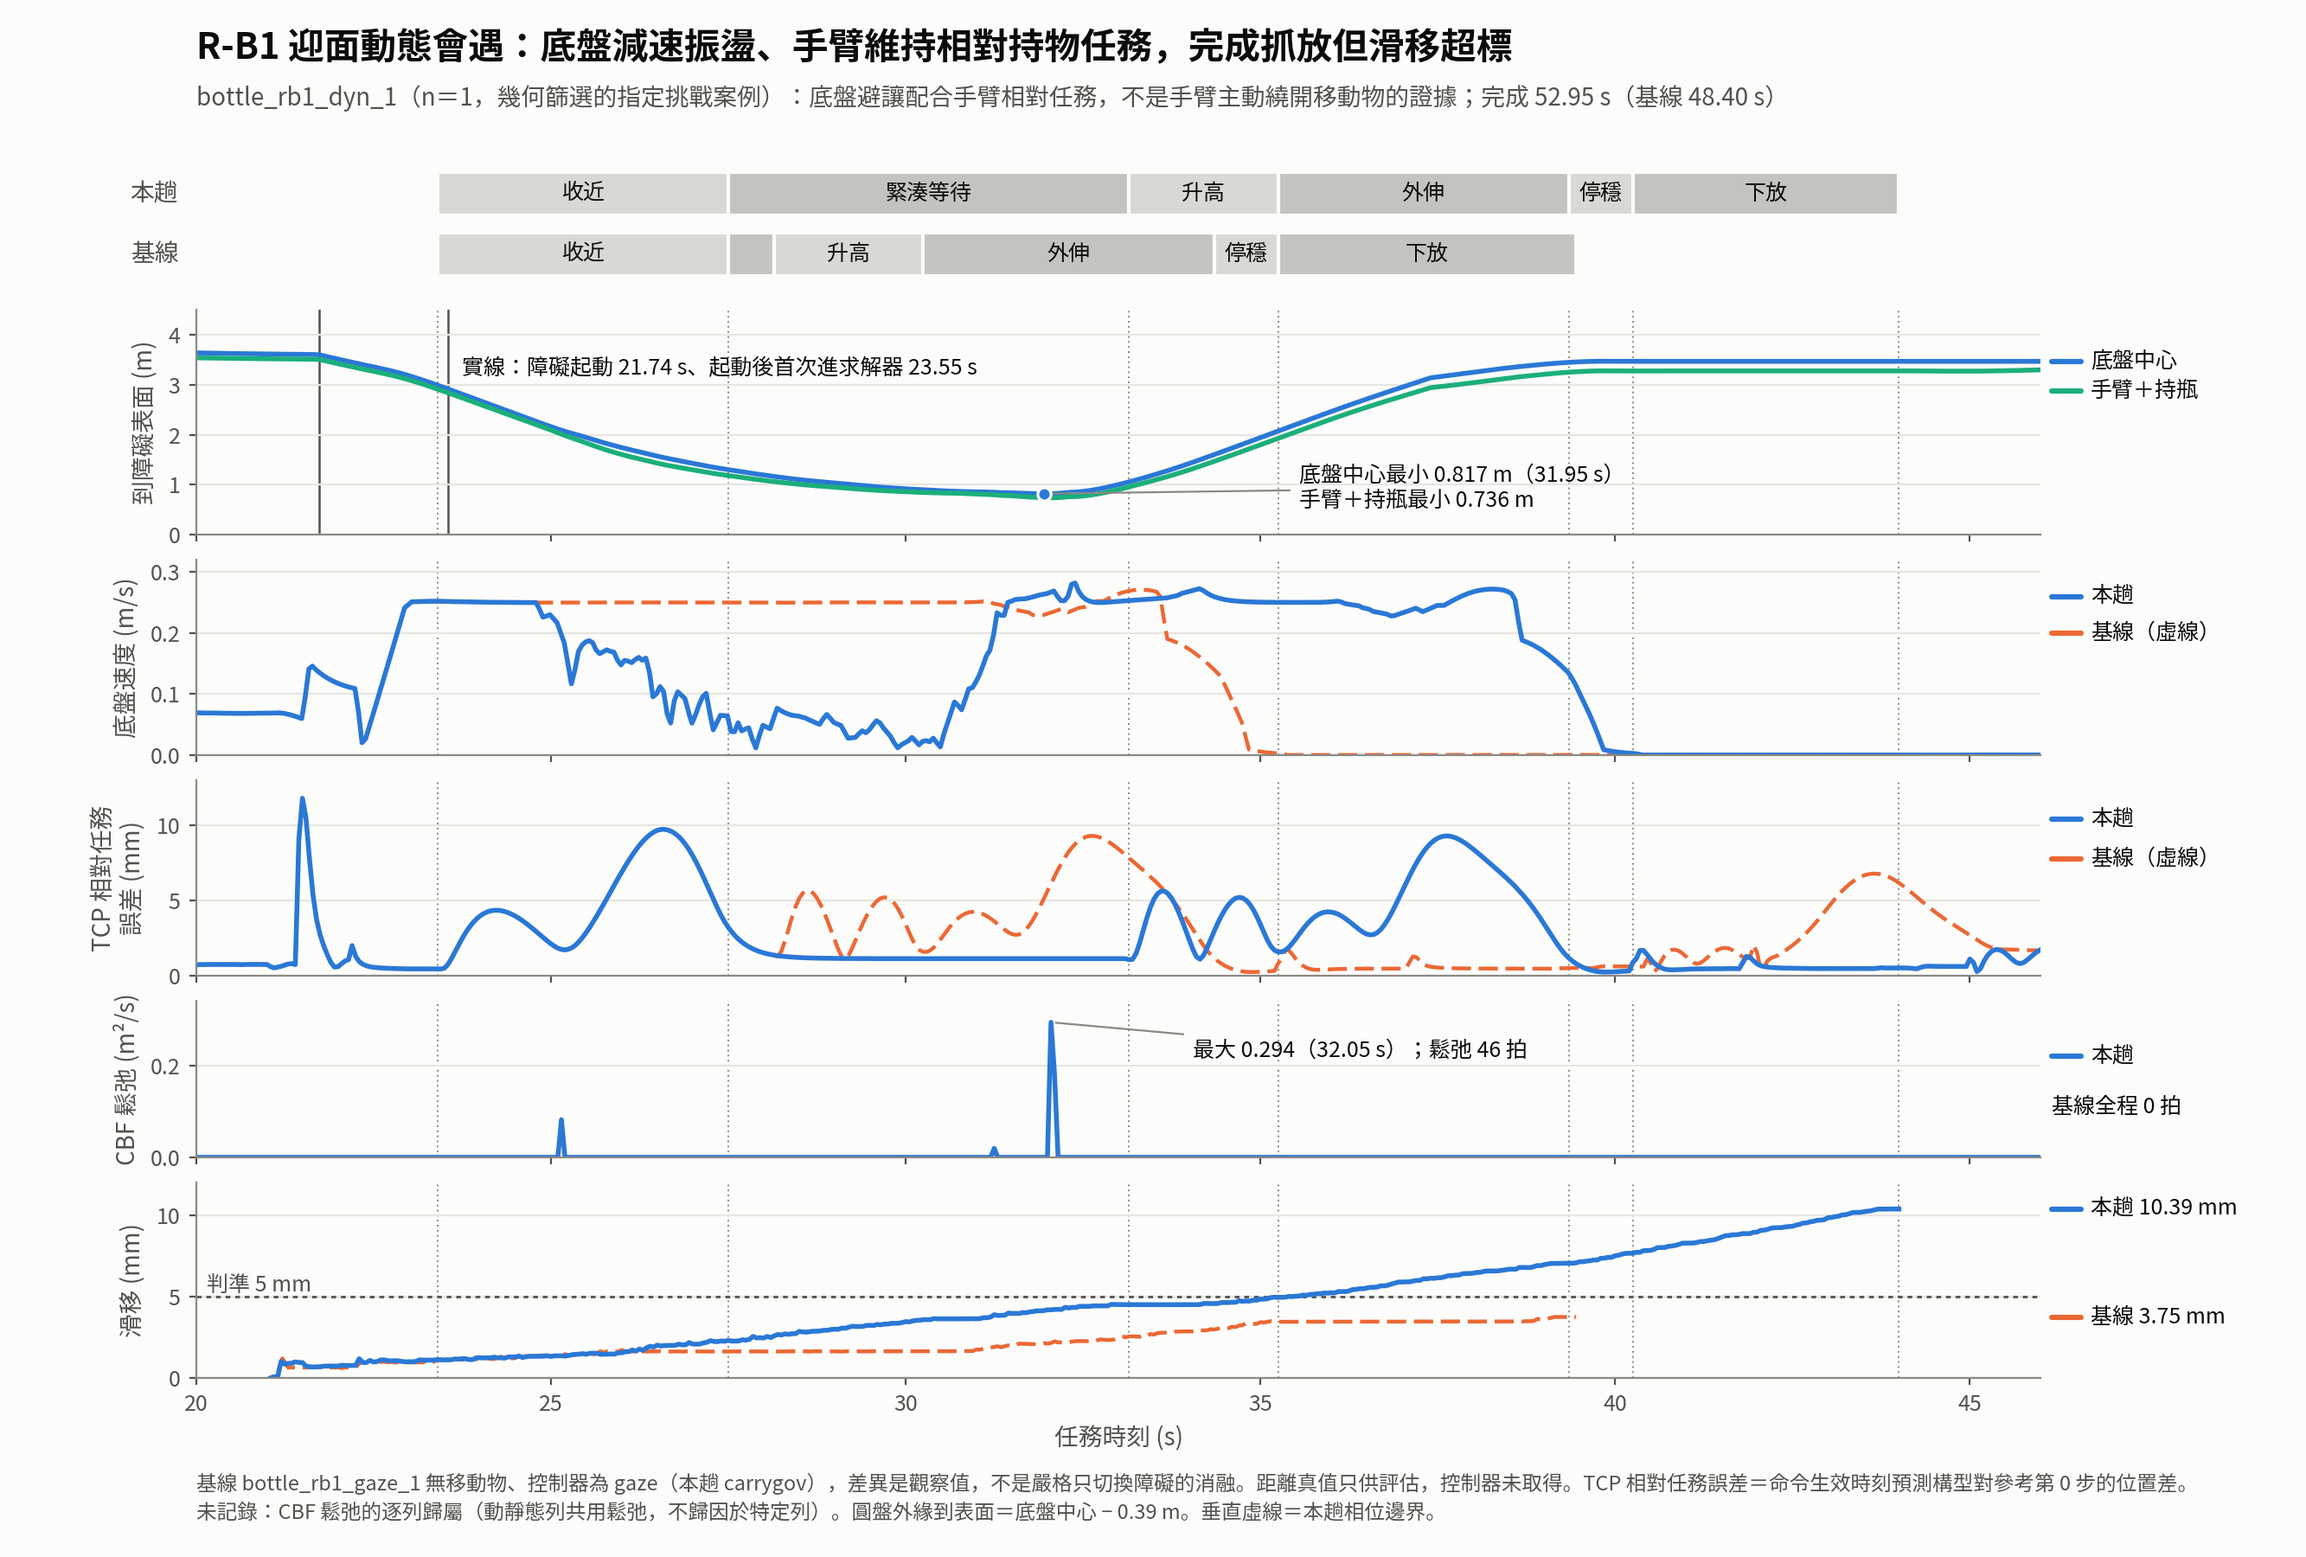
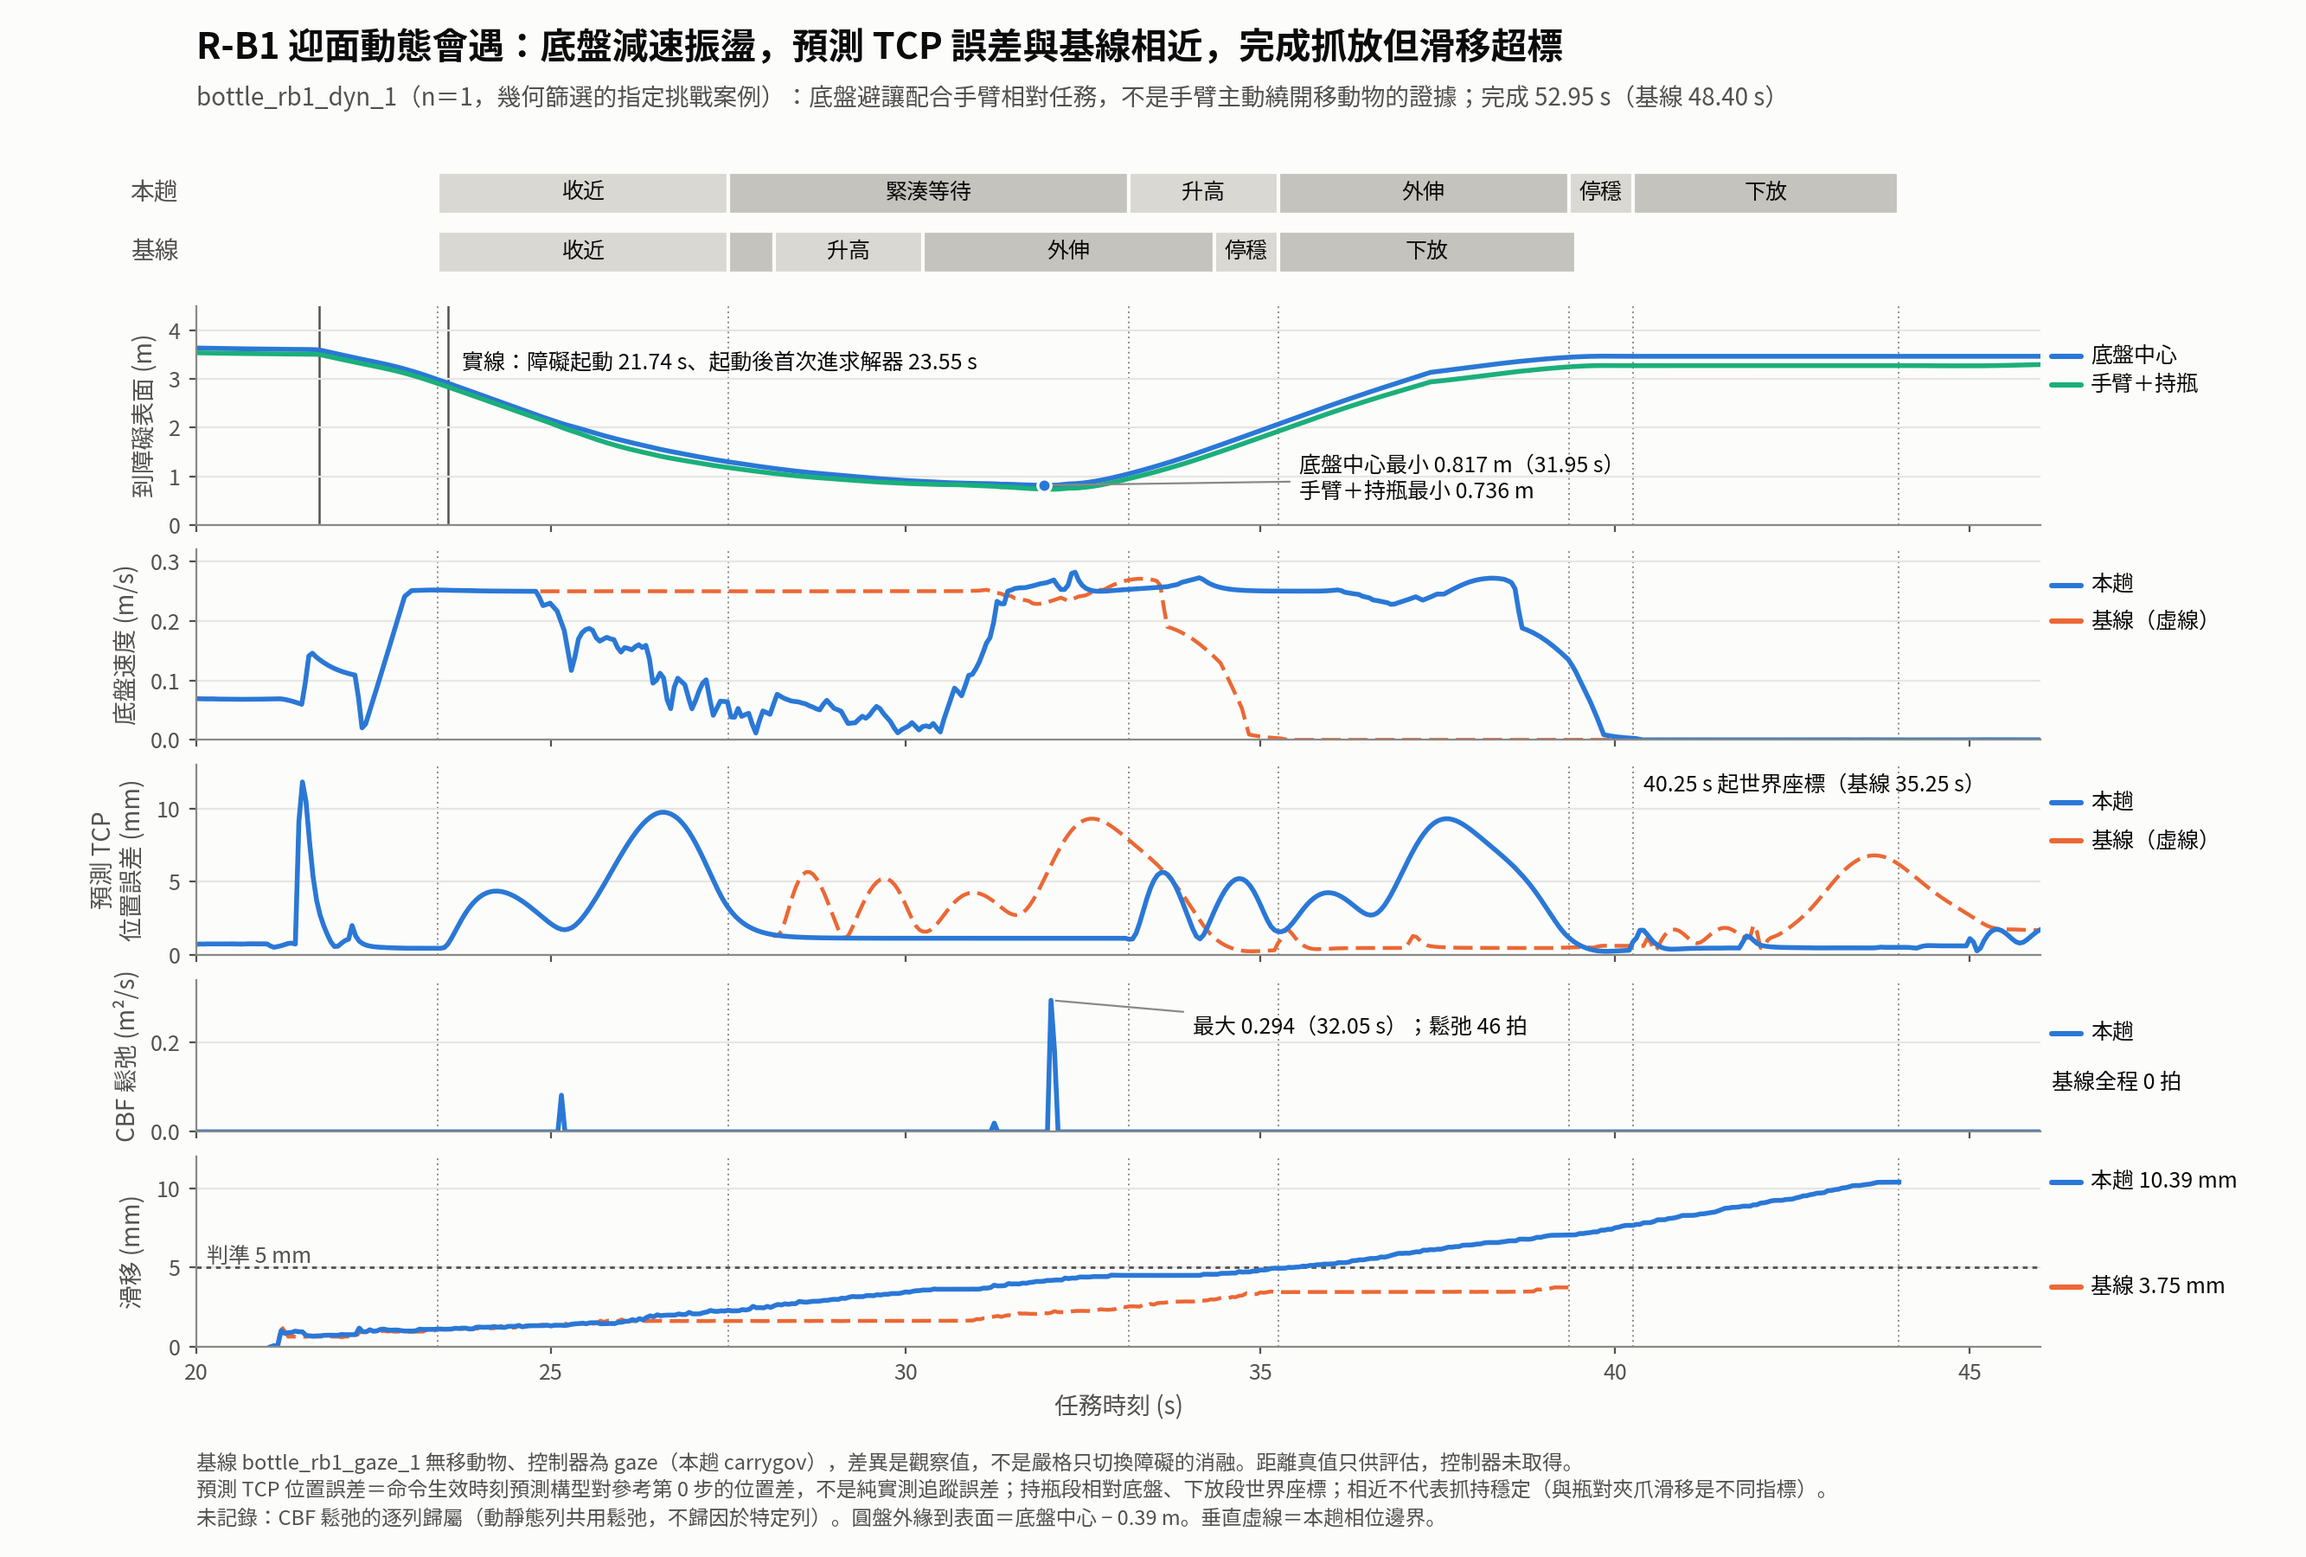
bottle_rb1_dyn_1 封存前文字收斂（Codex）：第三格改稱命令生效時刻的預測 TCP 位置誤差並標座標切換；結論改為兩趟各相位預測 TCP 誤差相近、不能據此證明抓持穩定；PARKED→鬆爪手臂仍下放並可能接觸桌面，不稱靜態懸持，保留滑移不能只由會遇振盪解釋；註腳分三行

diff --git a/evaluation/bottle_rb1_dyn_timeline_fig.py b/evaluation/bottle_rb1_dyn_timeline_fig.py
@@ -1,10 +1,10 @@
 #!/usr/bin/env python3
 """R-B1＋迎面移動物的報告用時間軸圖（Codex 20261102；只讀既有紀錄，不補造未記錄的量）。
-回答：動態會遇時，底盤如何改變運動、手臂如何維持持物任務，以及任務代價與品質如何變化。本案屬底盤避讓配合手臂相對任務，不是手臂主動繞開移動物的證據。
+回答：動態會遇時，底盤如何改變運動、預測 TCP 誤差如何變化，以及任務代價與品質如何變化。本案屬底盤避讓配合手臂相對任務，不是手臂主動繞開移動物的證據。預測 TCP 誤差相近不能證明抓持穩定（TCP 追蹤與瓶對夾爪滑移是不同指標）。
 共用時間軸（任務時刻）的五格：
   障礙距離（對障礙表面，真值只供評估）：底盤中心；手臂＋持瓶（高度 ≤ 障礙高的連桿點與持瓶點的最小值，每 0.05 s）；
   底盤速度（量測位置差分，10 物理步滑動平均）；
-  TCP 相對任務誤差＝s1_cbf 每求解拍：命令生效時刻預測構型 qp 的 TCP 對參考 T_seq[0] 的位置差（持瓶運送段在底盤座標、下放段在世界座標，同該拍求解）；
+  命令生效時刻的預測 TCP 位置誤差＝s1_cbf 每求解拍：預測構型 qp 的 TCP 對參考 T_seq[0] 的位置差（不是純實測追蹤誤差；持瓶段相對底盤、下放段世界座標，同該拍求解）；
   CBF 鬆弛 eps0（m²/s；動靜態列共用鬆弛，紀錄沒有逐列歸屬，不歸因於特定列）；
   滑移＝TCP→瓶相對平移對抓持成立時刻（量測 FK＋讀回瓶位姿），畫到鬆爪為止。
 本趟 bottle_rb1_dyn_1（carrygov），對照 bottle_rb1_gaze_1（gaze，無移動物）：控制器版本不同，不是嚴格只切換障礙的消融。
@@ -126,7 +126,7 @@ def main():
     t_near = float(td[k0])
     ph, phb = phases(r), phases(rb)
     fig = plt.figure(figsize=(13.33, 9.0), dpi=200, facecolor=SURF)
-    gs = fig.add_gridspec(6, 1, height_ratios=[0.62, 1.15, 1.0, 1.0, 0.8, 1.0], hspace=0.14, left=0.085, right=0.885, top=0.895, bottom=0.115)
+    gs = fig.add_gridspec(6, 1, height_ratios=[0.62, 1.15, 1.0, 1.0, 0.8, 1.0], hspace=0.14, left=0.085, right=0.885, top=0.895, bottom=0.135)
     axs = [fig.add_subplot(gs[i, 0]) for i in range(6)]
     for a in axs[1:]:
         a.sharex(axs[0])
@@ -180,9 +180,11 @@ def main():
     me, meb = (te >= T_LO) & (te <= T_HI), (teb >= T_LO) & (teb <= T_HI)
     a.plot(teb[meb], deb[meb], color=C_BASE, linewidth=1.6, linestyle=(0, (5, 2)))
     a.plot(te[me], de[me], color=C_RUN, linewidth=2)
-    style(a, 'TCP 相對任務\n誤差 (mm)', (0, max(12.0, float(de[me].max()) * 1.1)))
+    style(a, '預測 TCP\n位置誤差 (mm)', (0, max(12.0, float(de[me].max()) * 1.1)))
     rlabel(a, a.get_ylim()[1] * 0.80, '本趟', C_RUN)
     rlabel(a, a.get_ylim()[1] * 0.60, '基線（虛線）', C_BASE)
+    t_low, t_lowb = next(x for n_, x, _ in ph if n_ == '下放'), next(x for n_, x, _ in phb if n_ == '下放')
+    a.text(t_low + 0.15, a.get_ylim()[1] * 0.86, f'{t_low:.2f} s 起世界座標（基線 {t_lowb:.2f} s）', fontsize=9, color=INK)
     a = axs[4]
     a.plot(te[me], eps[me], color=C_RUN, linewidth=2)
     style(a, 'CBF 鬆弛 (m²/s)', (0, 0.34))
@@ -210,9 +212,10 @@ def main():
     A2.axvline(t_mv, color=INK2, linewidth=0.9, zorder=0)
     A2.axvline(23.55, color=INK2, linewidth=0.9, zorder=0)
     A2.text(23.75, 3.2, f'實線：障礙起動 {t_mv:.2f} s、起動後首次進求解器 23.55 s', fontsize=9, color=INK)
-    fig.text(0.085, 0.962, 'R-B1 迎面動態會遇：底盤減速振盪、手臂維持相對持物任務，完成抓放但滑移超標', fontsize=15, color=INK, weight='bold', ha='left')
+    fig.text(0.085, 0.962, 'R-B1 迎面動態會遇：底盤減速振盪，預測 TCP 誤差與基線相近，完成抓放但滑移超標', fontsize=15, color=INK, weight='bold', ha='left')
     fig.text(0.085, 0.932, 'bottle_rb1_dyn_1（n＝1，幾何篩選的指定挑戰案例）：底盤避讓配合手臂相對任務，不是手臂主動繞開移動物的證據；完成 52.95 s（基線 48.40 s）', fontsize=10, color=INK2, ha='left')
-    fig.text(0.085, 0.022, '基線 bottle_rb1_gaze_1 無移動物、控制器為 gaze（本趟 carrygov），差異是觀察值，不是嚴格只切換障礙的消融。距離真值只供評估，控制器未取得。TCP 相對任務誤差＝命令生效時刻預測構型對參考第 0 步的位置差。\n'
+    fig.text(0.085, 0.018, '基線 bottle_rb1_gaze_1 無移動物、控制器為 gaze（本趟 carrygov），差異是觀察值，不是嚴格只切換障礙的消融。距離真值只供評估，控制器未取得。\n'
+             '預測 TCP 位置誤差＝命令生效時刻預測構型對參考第 0 步的位置差，不是純實測追蹤誤差；持瓶段相對底盤、下放段世界座標；相近不代表抓持穩定（與瓶對夾爪滑移是不同指標）。\n'
              '未記錄：CBF 鬆弛的逐列歸屬（動靜態列共用鬆弛，不歸因於特定列）。圓盤外緣到表面＝底盤中心 − 0.39 m。垂直虛線＝本趟相位邊界。', fontsize=8.5, color=INK2, ha='left', va='bottom', linespacing=1.5)
     fig.savefig(PNG, facecolor=SURF)
     with open(CSV, 'w', newline='') as f:

diff --git a/第七次進度報告素材/規格/瓶子區域任務RB1_迎面移動物.md b/第七次進度報告素材/規格/瓶子區域任務RB1_迎面移動物.md
@@ -136,15 +136,17 @@
 | PARKED → 鬆爪 | +0.29 mm | **+2.73 mm** |
 
 - 緊湊等待段涵蓋會遇時的車速振盪，時間上相關；**因果尚未驗證**。
-- 底盤已靜止的 PARKED → 鬆爪段滑移仍上升 2.73 mm，所以不能只用會遇振盪解釋；差異來源未分解。
+- PARKED → 鬆爪段底盤靜止，但手臂仍在下放並可能接觸桌面（不是靜態懸持）；這段滑移上升 2.73 mm。所以**滑移不能只由會遇振盪解釋**，差異來源未分解。
 
 ### 報告用圖
 
 - **檔案**：`第七次進度報告素材/圖表/rb1_dyn_timeline.png`；數列（表格檢視）`evaluation/results/bottle/rb1_dyn_timeline.csv`；工具 `evaluation/bottle_rb1_dyn_timeline_fig.py`（只讀既有紀錄）。
-- **內容**：共用時間軸五格——障礙距離、底盤速度、TCP 相對任務誤差、CBF 鬆弛、滑移；上方相位條標收近、升高、外伸、下放。未記錄的 CBF 逐列歸屬在圖上明示缺少。
+- **內容**：共用時間軸五格——障礙距離、底盤速度、命令生效時刻的預測 TCP 位置誤差、CBF 鬆弛、滑移；上方相位條標收近、升高、外伸、下放。未記錄的 CBF 逐列歸屬在圖上明示缺少。圖從 20 s 開始，起動前的動態誤判留在上面的時間鏈揭露。
 - **圖回答的問題**：
   - **底盤如何改變運動**：約 25–31 s 車速由 0.25 降到 0.02–0.19 m/s 並振盪，之後回到約 0.25 m/s。
-  - **手臂如何維持持物任務**：TCP 相對任務誤差在各相位與基線幾乎相同（中位／最大，本趟對基線，mm）：收近 4.16／9.74 對 4.16／9.74；緊湊等待 1.14／3.23 對 1.90／3.23；升高 3.73／5.63 對 3.77／5.66；外伸 4.24／9.30 對 4.24／9.30。
+  - **預測 TCP 誤差**：兩趟各相位相近（中位／最大，本趟對基線，mm）：收近 4.16／9.74 對 4.16／9.74；緊湊等待 1.14／3.23 對 1.90／3.23；升高 3.73／5.63 對 3.77／5.66；外伸 4.24／9.30 對 4.24／9.30。
+    - 這是命令生效時刻的預測值，不是純實測追蹤誤差；持瓶段相對底盤、下放段世界座標。
+    - 相近**不能證明抓持穩定**：TCP 追蹤與瓶對夾爪滑移是不同指標。
   - **代價與品質**：完成 +4.55 s；滑移 10.39 mm（基線 3.75 mm），原抓持品質不合格。
 
 ### 限制與影片
